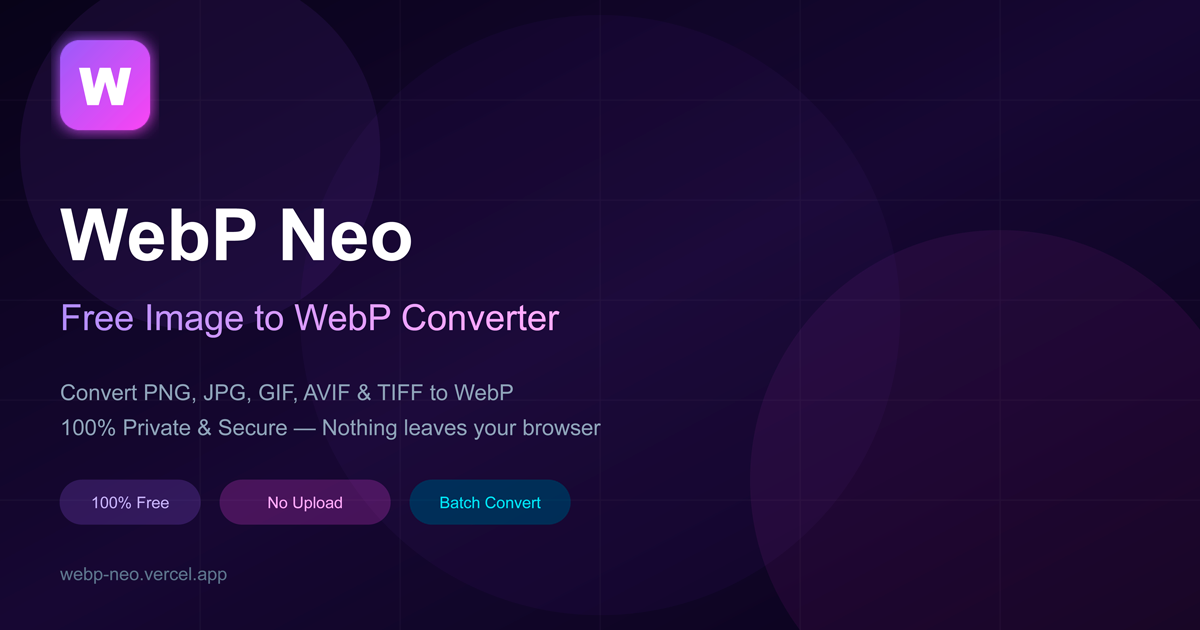
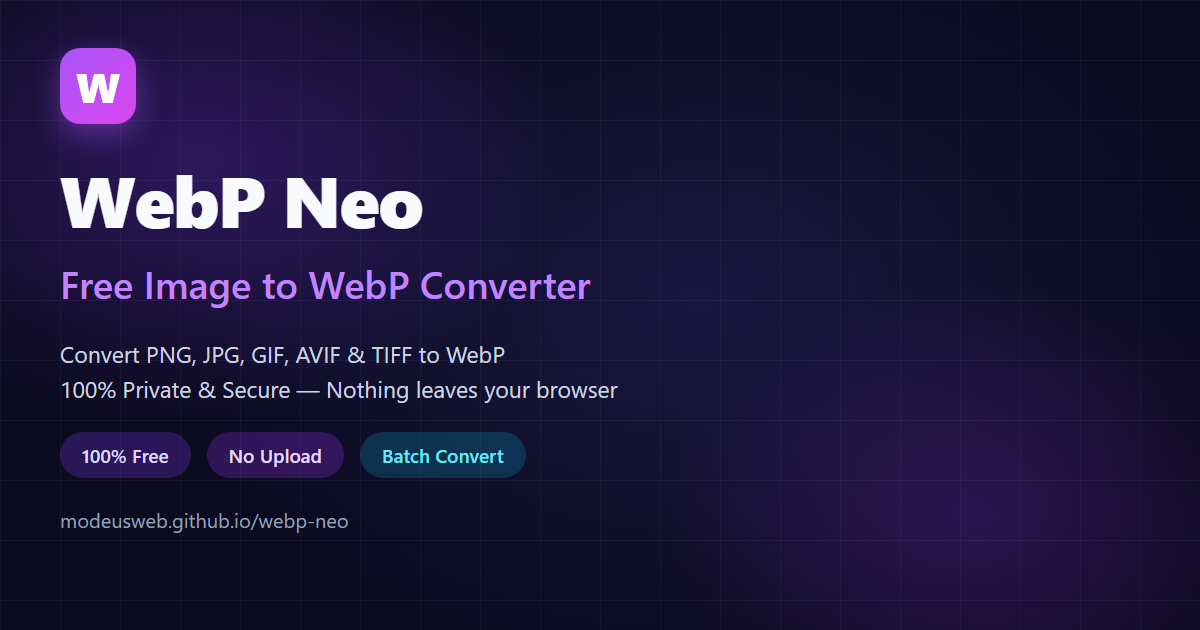
deploy: switch from Vercel to GitHub Pages with static export
- next.config.mjs: output 'export', basePath/assetPrefix via NEXT_PUBLIC_BASE_PATH
- add GitHub Actions workflow building and deploying the out/ folder to Pages
- remove vercel.json, add public/.nojekyll and ignore out/
- update all site URLs to https://modeusweb.github.io/webp-neo/
- regenerate og-image.png with the new domain

diff --git a/src/app/layout.tsx b/src/app/layout.tsx
@@ -2,7 +2,8 @@ import type { Metadata, Viewport } from 'next';
 import type { ReactNode } from 'react';
 import './globals.css';
 
-const siteUrl = 'https://webp-neo.vercel.app/';
+const siteUrl =
+  process.env.NEXT_PUBLIC_SITE_URL ?? 'https://modeusweb.github.io/webp-neo/';
 
 const webApplicationSchema = {
   '@context': 'https://schema.org',
@@ -140,7 +141,7 @@ export const metadata: Metadata = {
   ],
   metadataBase: new URL(siteUrl),
   alternates: {
-    canonical: '/',
+    canonical: siteUrl,
   },
   robots: {
     index: true,
@@ -160,7 +161,7 @@ export const metadata: Metadata = {
       'Convert PNG, JPG, BMP, GIF, AVIF and TIFF to WebP — 100% free and private, all in your browser.',
     images: [
       {
-        url: '/og-image.png',
+        url: `${siteUrl}og-image.png`,
         width: 1200,
         height: 630,
         alt: 'WebP Neo — free image to WebP converter interface',
@@ -172,27 +173,27 @@ export const metadata: Metadata = {
     title: 'WebP Neo — Free Image to WebP Converter',
     description:
       'Convert PNG, JPG, BMP, GIF, AVIF and TIFF to WebP — 100% free and private, all in your browser.',
-    images: ['/og-image.png'],
+    images: [`${siteUrl}og-image.png`],
   },
   icons: {
     icon: [
       {
-        url: '/favicon.ico',
+        url: `${siteUrl}favicon.ico`,
         sizes: 'any',
         type: 'image/x-icon',
       },
       {
-        url: '/favicon-120x120.png',
+        url: `${siteUrl}favicon-120x120.png`,
         sizes: '120x120',
         type: 'image/png',
       },
       {
-        url: '/favicon.svg',
+        url: `${siteUrl}favicon.svg`,
         type: 'image/svg+xml',
       },
     ],
-    shortcut: '/favicon.ico',
-    apple: '/apple-touch-icon.png',
+    shortcut: `${siteUrl}favicon.ico`,
+    apple: `${siteUrl}apple-touch-icon.png`,
   },
 };
 

diff --git a/src/components/ShareButtons.tsx b/src/components/ShareButtons.tsx
@@ -2,7 +2,8 @@
 
 import { useEffect, useState } from 'react';
 
-const PAGE_URL = 'https://webp-neo.vercel.app/';
+const PAGE_URL =
+  process.env.NEXT_PUBLIC_SITE_URL ?? 'https://modeusweb.github.io/webp-neo/';
 const SHARE_TEXT =
   'WebP Neo — free, private image to WebP converter. Everything runs in your browser, no uploads.';
 const enc = encodeURIComponent;

diff --git a/README.md b/README.md
@@ -6,7 +6,7 @@ Convert PNG, JPG, BMP, GIF, AVIF and TIFF images to WebP without uploading anyth
 
 ![WebP Neo](https://img.shields.io/badge/WebP-Neo-8b5cf6?style=flat-square) ![License](https://img.shields.io/badge/license-MIT-green?style=flat-square) ![Free](https://img.shields.io/badge/price-free-10a34f?style=flat-square)
 
-> **🚀 Live demo: [webp-neo.vercel.app](https://webp-neo.vercel.app/)**
+> **🚀 Live demo: [modeusweb.github.io/webp-neo](https://modeusweb.github.io/webp-neo/)**
 
 ---
 
@@ -29,8 +29,9 @@ Convert PNG, JPG, BMP, GIF, AVIF and TIFF images to WebP without uploading anyth
 | Layer | Technology |
 |---|---|
 | Framework | Next.js 16 (App Router) + React 19 + TypeScript 7 |
-| Rendering | Full SSR / SSG — content is server-rendered for SEO, the converter is a client component |
-| Build | Next.js (Turbopack) |
+| Rendering | Static export (`output: 'export'`) — SEO content is pre-rendered to HTML, the converter is a client component |
+| Build | Next.js 16 (App Router, Turbopack) |
+| Hosting | GitHub Pages via GitHub Actions |
 | Styling | Tailwind CSS 4 |
 | Icons | Heroicons |
 | WebP encoding | Native `canvas.toBlob` + `@stacksjs/ts-webp` fallback |
@@ -62,21 +63,40 @@ npm install
 npm run dev
 ```
 
-Open [http://localhost:5173](http://localhost:5173) in your browser.
+Open [http://localhost:3000](http://localhost:3000) in your browser.
 
-### Production Build
+### Production Build (static export)
 
 ```bash
 npm run build
 ```
 
-The optimized build is generated into the `.next/` directory.
+The project uses `output: 'export'`, so the fully static site is generated into
+the `out/` directory.
 
-### Run the Production Server
+### Preview the Export Locally
 
 ```bash
 npm run start
 ```
+
+---
+
+## Deployment
+
+The site is deployed automatically to **GitHub Pages** via GitHub Actions
+(`.github/workflows/deploy.yml`):
+
+1. Push to `master` (or run the workflow manually from the Actions tab).
+2. The workflow builds the static export with `NEXT_PUBLIC_BASE_PATH=/webp-neo`.
+3. The `out/` folder is uploaded as a Pages artifact and published to
+   `https://modeusweb.github.io/webp-neo/`.
+
+In the repository settings (**Settings → Pages → Build and deployment**) the
+source must be set to **GitHub Actions**.
+
+To use a custom domain instead, set the repository variable `BASE_PATH` to an
+empty value in **Settings → Secrets and variables → Actions**.
 
 ---
 
